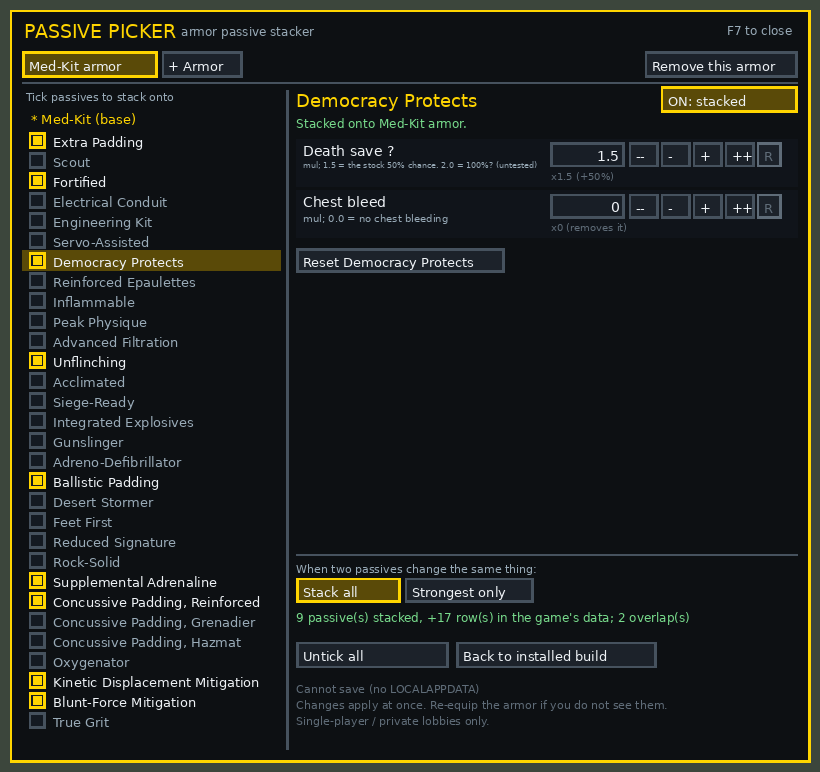
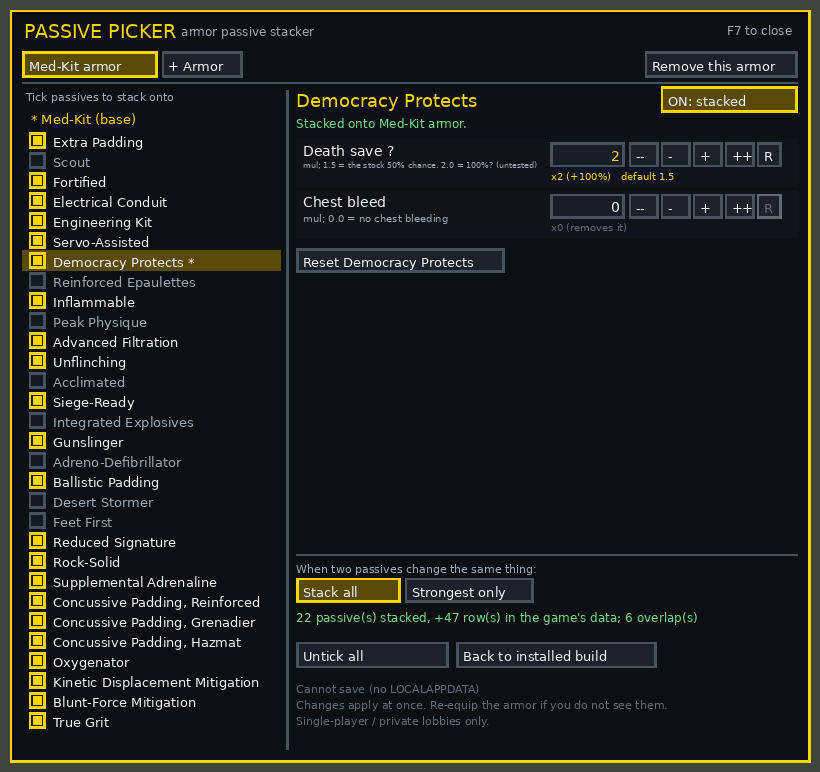
Show the version in the mod manager; new screenshots (panel, web builder)

diff --git a/docs/app.js b/docs/app.js
@@ -372,7 +372,8 @@
     const lua = core.generateLua(data, settings, profiles);
     const archive = core.archiveFor(data, lua);
     const display = settings.name || data.title;
-    const desc = core.describeProfiles(profiles) + ". " + data.credit;
+    const desc = `v${data.version}. Press ${settings.hotkey || data.default_hotkey} in game to edit. ` +
+      core.describeProfiles(profiles) + ". " + data.credit;
     let icon = null;
     try { const r = await fetch("icon.png"); if (r.ok) icon = new Uint8Array(await r.arrayBuffer()); } catch (e) { /* optional */ }
     const zip = new JSZip();

diff --git a/tools/picker.py b/tools/picker.py
@@ -642,7 +642,8 @@ def cmd_build(args):
         return 0
     archive = archive_for(full)
     display = args.name or settings["name"] or TITLE
-    desc = "%s. %s" % (describe_profiles(profiles), CREDIT)
+    desc = "v%s. Press %s in game to edit. %s. %s" % (VERSION, settings.get("hotkey") or DEFAULT_HOTKEY,
+                                                     describe_profiles(profiles), CREDIT)
     guid = write_zip(archive, args.zip, display, desc)
     print("Wrote zip         : %s  (%d bytes Lua, guid %s)" % (args.zip, len(full.encode("utf-8")), guid))
     print("Install it with your mod manager. Remove the original Passive Picker v3 first.")
@@ -686,8 +687,9 @@ def cmd_release(args):
     guid = str(uuid.uuid5(GUID_NS, MOD_ID))
     manifest = {
         "Version": 1, "Guid": guid, "Name": TITLE,
-        "Description": "Pick one preset stack for Med-Kit armour, or build your own at "
-                       "https://hung1510.github.io/HD2-Armor-Transmog/ . " + CREDIT,
+        "Description": "v%s. Press %s in game to tick passives and change values live. "
+                       "Pick one preset stack for Med-Kit armour, or build your own at "
+                       "https://hung1510.github.io/HD2-Armor-Transmog/ . %s" % (VERSION, DEFAULT_HOTKEY, CREDIT),
         "Options": [{
             "Name": TITLE,
             "Description": "Choose ONE preset.",

diff --git a/README.md b/README.md
@@ -27,6 +27,8 @@ Built on **[Modular Armor Passives / Passive Picker v3](https://ayakamods.com/mo
 | Your own build, no setup | **[Web builder](https://hung1510.github.io/HD2-Armor-Transmog/)**, then *Download mod (.zip)* |
 | Scripting / version control | `python tools\picker.py build loadout.ini --zip "My Stack.zip"` (below) |
 
+<p align="center"><img src="docs/img/web-builder.png" width="720" alt="Web builder"></p>
+
 Then:
 1. Remove Passive Picker v3 and any older v4 build.
 2. Deploy, **fully restart the game**, and wear armor with the passive the stack is on (Med-Kit by default; use Armor Transmog if you want a different look).
